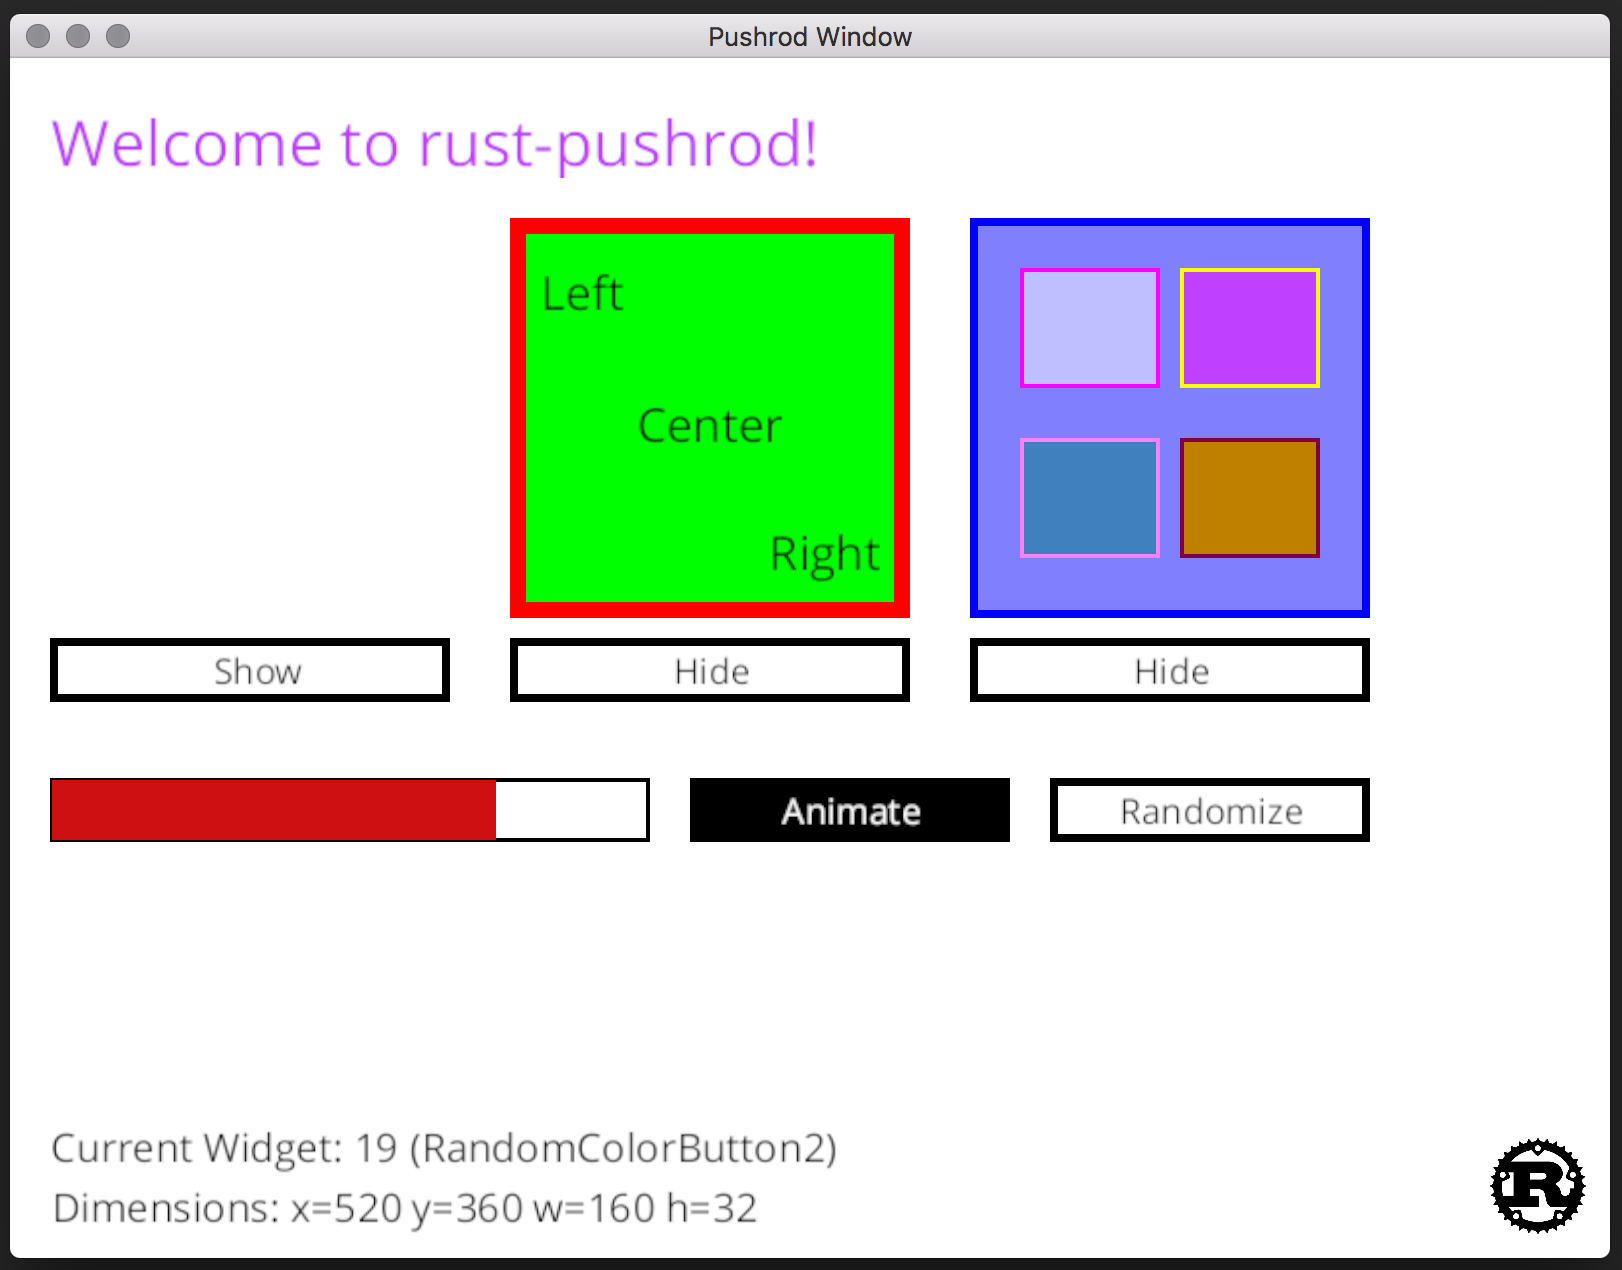
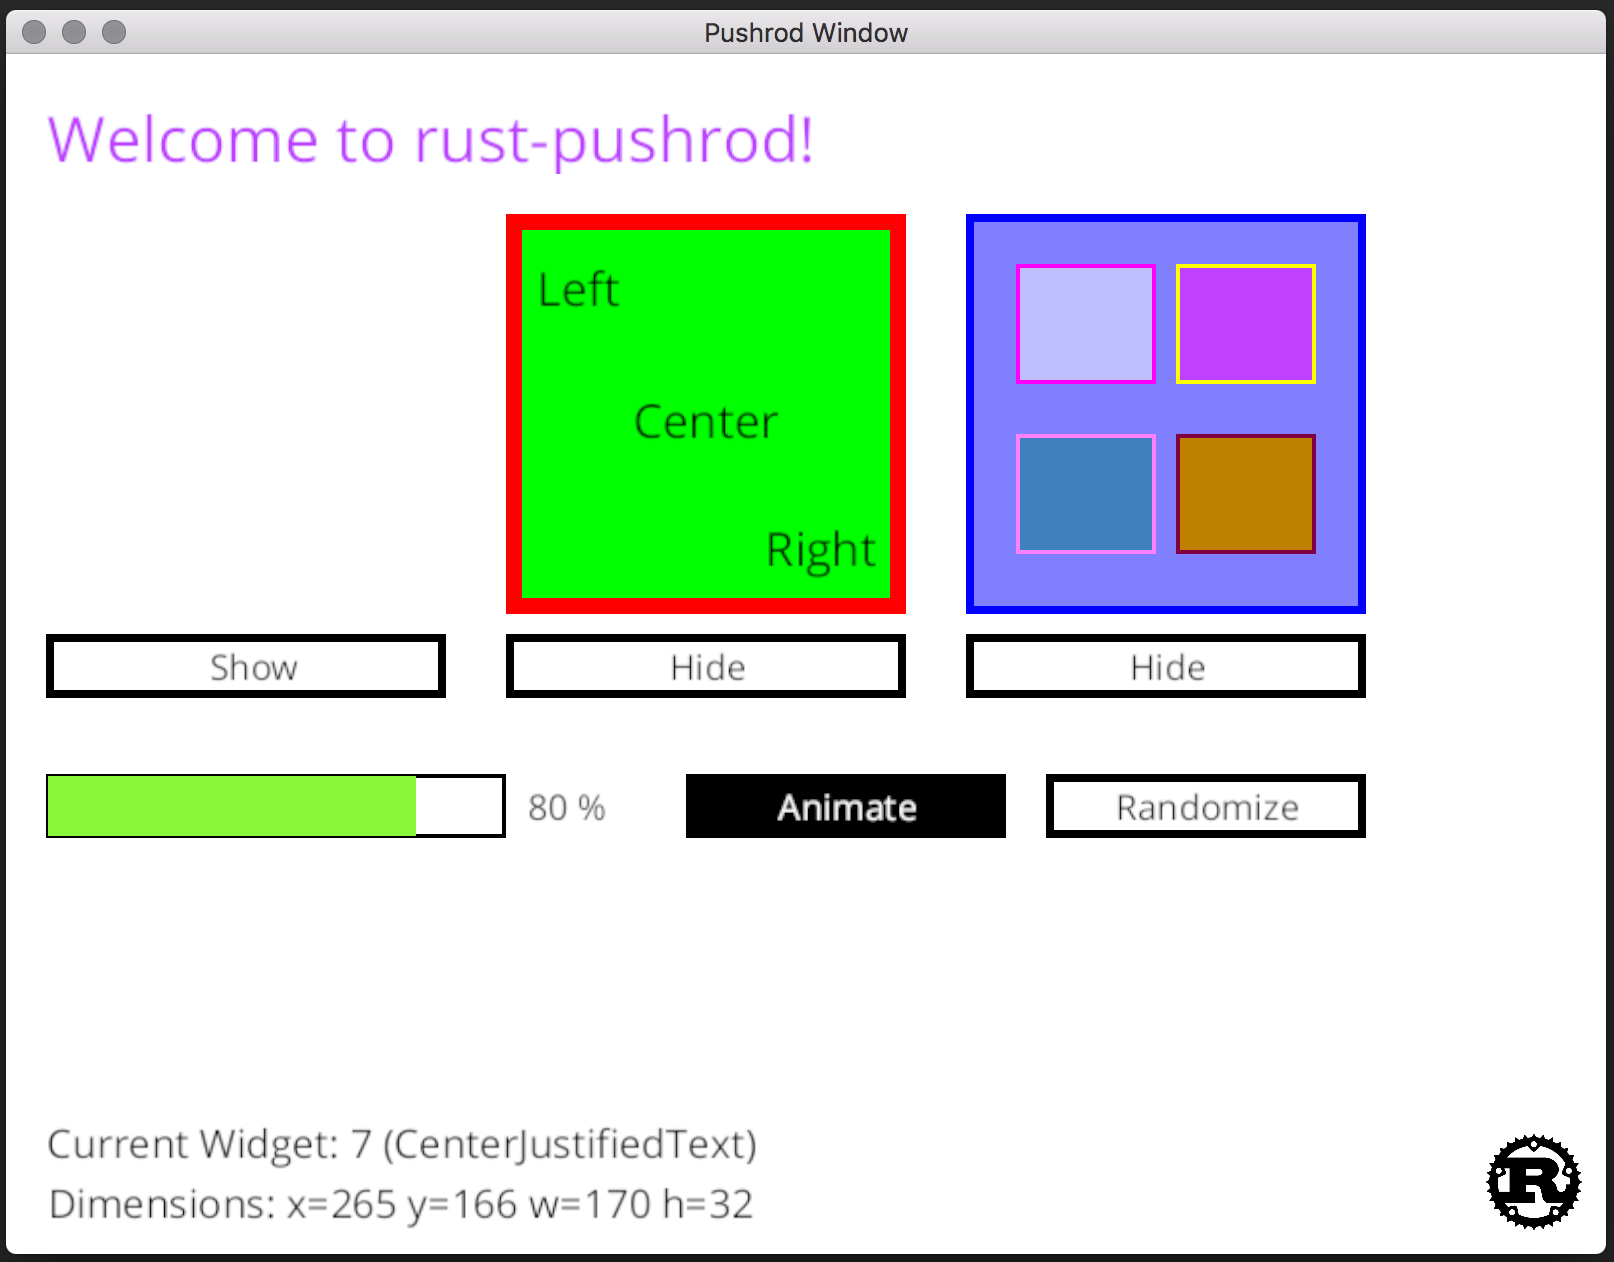
Updated screenshot.

diff --git a/examples/simple.rs b/examples/simple.rs
@@ -21,7 +21,6 @@ use piston_window::*;
 use pushrod::core::callbacks::*;
 use pushrod::core::main::*;
 use pushrod::core::widget_store::*;
-use pushrod::core::point::*;
 use pushrod::widget::box_widget::*;
 use pushrod::widget::image_widget::*;
 use pushrod::widget::progress_widget::*;
@@ -119,7 +118,7 @@ impl PushrodCallbackEvents for SimpleWindowEventHandler {
                                     .borrow_mut()
                                     .config()
                                     .get_toggle(CONFIG_WIDGET_HIDDEN);
-                                let mut button_text = if state == true {
+                                let button_text = if state == true {
                                     String::from("Hide")
                                 } else {
                                     String::from("Show")
@@ -156,7 +155,7 @@ impl PushrodCallbackEvents for SimpleWindowEventHandler {
                 _ => (),
             },
 
-            CallbackEvent::TimerTriggered { widget_id: widget_id } => {
+            CallbackEvent::TimerTriggered { widget_id } => {
                 if widget_store.get_name_for_widget_id(widget_id) == "TimerWidget1" {
                     if self.animated {
                         self.progress += 1;
@@ -169,6 +168,11 @@ impl PushrodCallbackEvents for SimpleWindowEventHandler {
                             .get_widget_for_name("ProgressWidget")
                             .borrow_mut()
                             .set_config(CONFIG_PROGRESS, Config::Numeric(self.progress as u64));
+
+                        widget_store
+                            .get_widget_for_name("ProgressText1")
+                            .borrow_mut()
+                            .set_text(CONFIG_DISPLAY_TEXT, format!("{} %", self.progress));
                     }
                 }
             }
@@ -428,13 +432,28 @@ impl SimpleWindow {
         let mut progress_widget = ProgressWidget::new();
 
         progress_widget.set_point(CONFIG_ORIGIN, 20, 360);
-        progress_widget.set_size(CONFIG_BODY_SIZE, 300, 32);
+        progress_widget.set_size(CONFIG_BODY_SIZE, 230, 32);
         progress_widget.set_color(CONFIG_MAIN_COLOR, [1.0, 1.0, 1.0, 1.0]);
         progress_widget.set_color(CONFIG_SECONDARY_COLOR, [0.5, 0.5, 0.5, 1.0]);
         progress_widget.set_numeric(CONFIG_PROGRESS, 50);
         self.pushrod
             .borrow_mut()
             .add_widget("ProgressWidget", Box::new(progress_widget));
+
+        let mut progress_text = TextWidget::new(
+            self.pushrod.borrow_mut().get_factory(),
+            "OpenSans-Regular.ttf".to_string(),
+            "50%".to_string(),
+            18,
+            TextJustify::Left,
+        );
+
+        progress_text.set_point(CONFIG_ORIGIN, 260, 360);
+        progress_text.set_size(CONFIG_BODY_SIZE, 50, 32);
+        progress_text.set_color(CONFIG_TEXT_COLOR, [0.0, 0.0, 0.0, 1.0]);
+        self.pushrod
+            .borrow_mut()
+            .add_widget("ProgressText1", Box::new(progress_text));
 
         let mut button1 = ToggleButtonWidget::new(
             self.pushrod.borrow_mut().get_factory(),

diff --git a/src/widget/text_widget.rs b/src/widget/text_widget.rs
@@ -128,7 +128,9 @@ impl TextWidget {
                 .determine_size(self.config().get_text(CONFIG_DISPLAY_TEXT).as_str(), &mut self.font_cache, g)
                 .unwrap();
 
-            eprintln!("Desired size={:?} bounds={:?}", self.desired_size, size);
+            if self.desired_size.0 != 0 || self.desired_size.1 != 0 {
+                eprintln!("Desired size={:?} bounds={:?}", self.desired_size, size);
+            }
         }
 
         // Modify transform here based on the width of the text being drawn, which is element 0 of

diff --git a/RELEASE_NOTES.md b/RELEASE_NOTES.md
@@ -5,6 +5,7 @@
 - Includes widget_id when inject_event is called. (#102)
 - Fixed timer widget to include widget_id when triggered.
 - Added visibility of widget functionality via CONFIG_WIDGET_HIDDEN (#40)
+- Now shows the progress (in percentage) of the progress widget.
 
 ## 0.2.5
 
